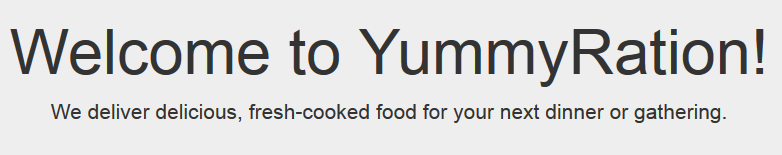
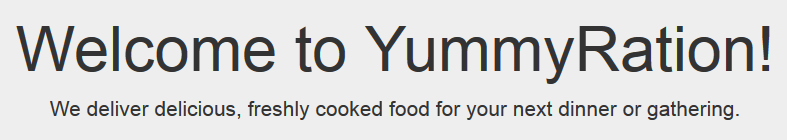
Language tweaks. GitWeb. Task 33411.

Changed region(s): [[0.0, 0.1714, 0.9821, 0.6], [0.0614, 0.6571, 0.9514, 0.8571]]

diff --git a/tutorials/gitweb/index.md b/tutorials/gitweb/index.md
@@ -95,7 +95,7 @@ To see the changes that you make to your code, create a Bluemix app and deploy t
 
 2. In the file explorer, next to `views`, click the **>** to expand the contents of the folder. Then, click **home.jade**.
 
-3. Locate the phrase "We deliver delicious fresh cooked food for your next dinner, cocktail, or party." Change it to "We deliver delicious freshcooked food for your next dinner or gathering."
+3. Locate the phrase "We deliver delicious fresh cooked food for your next dinner, cocktail, or party." Change it to "We deliver delicious, freshly cooked food for your next dinner or gathering."
 ![Changed Fisherman's Platter code block][5]
 
 4. In the Run Bar, click the **Open URL** button. You'll see the updated phrase on the page that opens.
